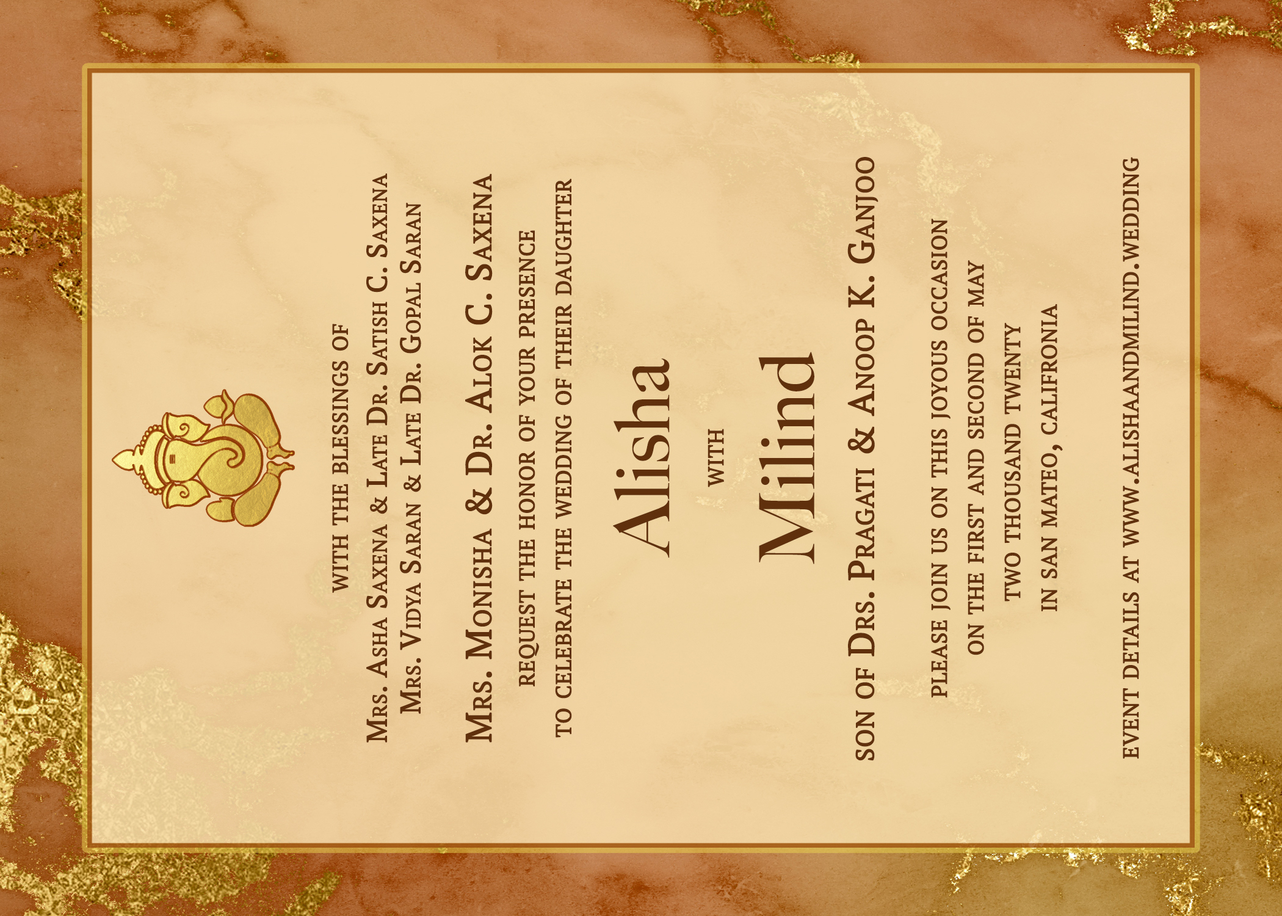
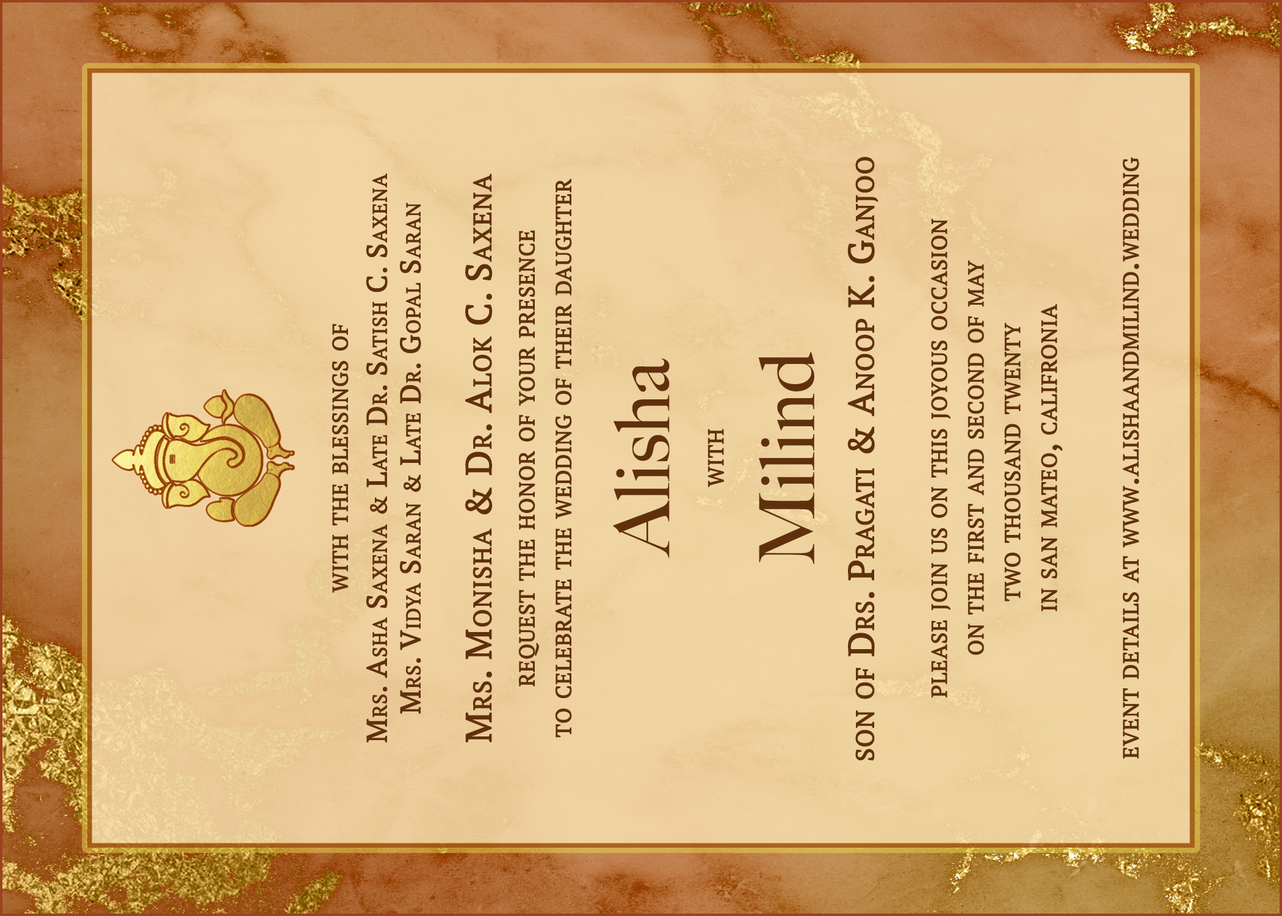
Remove fade in effect on load of invitation image

diff --git a/website/src/components/partials/InvitationCard.tsx b/website/src/components/partials/InvitationCard.tsx
@@ -188,7 +188,7 @@ const InvitationCardInner: React.FC<InvitationCardInnerProps> = ({
             <div styleName="back back-base">
               <animated.div
                 className={classnames("p-cover", {
-                  "border border-orange-800 shadow-lg": letterLoaded,
+                  "shadow-lg": letterLoaded,
                 })}
                 styleName="letter"
                 style={{
@@ -215,6 +215,7 @@ const InvitationCardInner: React.FC<InvitationCardInnerProps> = ({
               >
                 <BackgroundImage
                   style={{ width: "100%", height: "100%" }}
+                  fadeIn={false}
                   fluid={imageData.invitation.childImageSharp.fluid}
                   onLoad={() => setLetterLoaded(true)}
                 />
